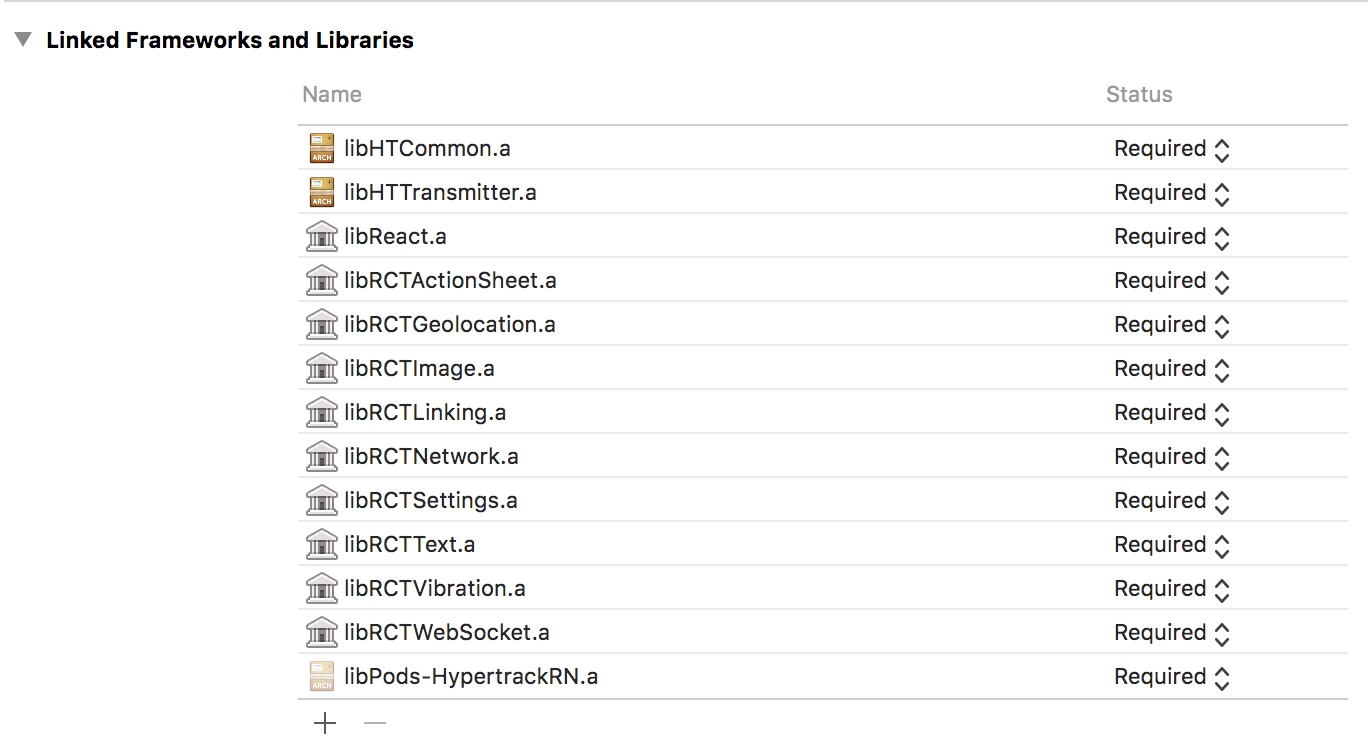
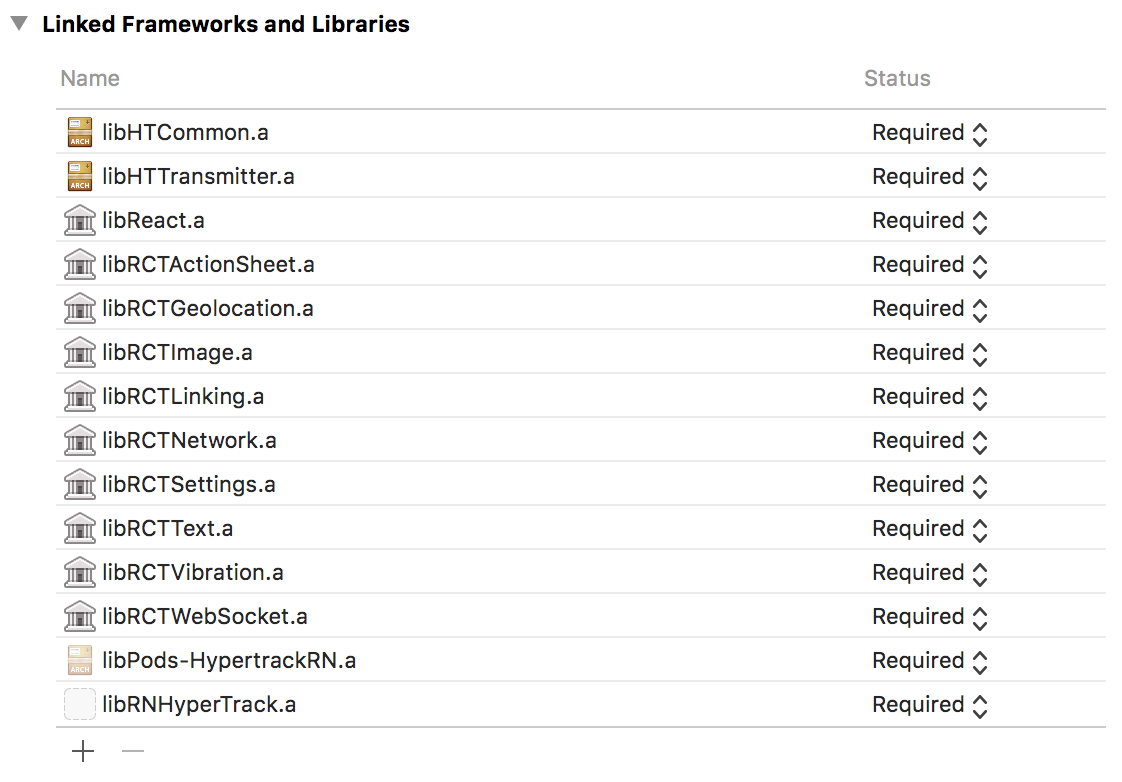
iOS readme

diff --git a/README.md b/README.md
@@ -1,5 +1,5 @@
 # react-native-hypertrack
-React native module for hypertrack-android and hypertrack-ios SDKs
+React native module for hypertrack-android and hypertrack-ios SDKs. Methods in the Driver SDK are covered in the current release. The [example-react-native](https://github.com/hypertrack/example-react-native) app is built on top of this module.
 
 [![Slack Status](http://slack.hypertrack.io/badge.svg)](http://slack.hypertrack.io) [![npm version](https://badge.fury.io/js/react-native-hypertrack.svg)](https://badge.fury.io/js/react-native-hypertrack)
 
@@ -61,6 +61,24 @@ If you are using an older version of React Native that does not support `link`, 
     ```
 
 ### iOS setup
+The native iOS SDKs need to be setup using Cocoapods. In your project's `ios` directory, create a Podfile.
+```
+$ cd ios
+$ pod init
+```
+
+Edit the Podfile to include `HTTransmitter` as a dependency for your project, and then install the pod.
+```
+$ cat Podfile
+target 'YourApp' do
+  pod 'HTTransmitter'
+  end
+end
+
+$ pod install
+```
+
+Now, open the iOS project with the `.xcworkspace` file in Xcode, and add the native SDK `.a` files in the linked frameworks and libraries section.
 ![Linked frameworks and libraries](readme-imgs/linker.png)
 
 ## Usage
